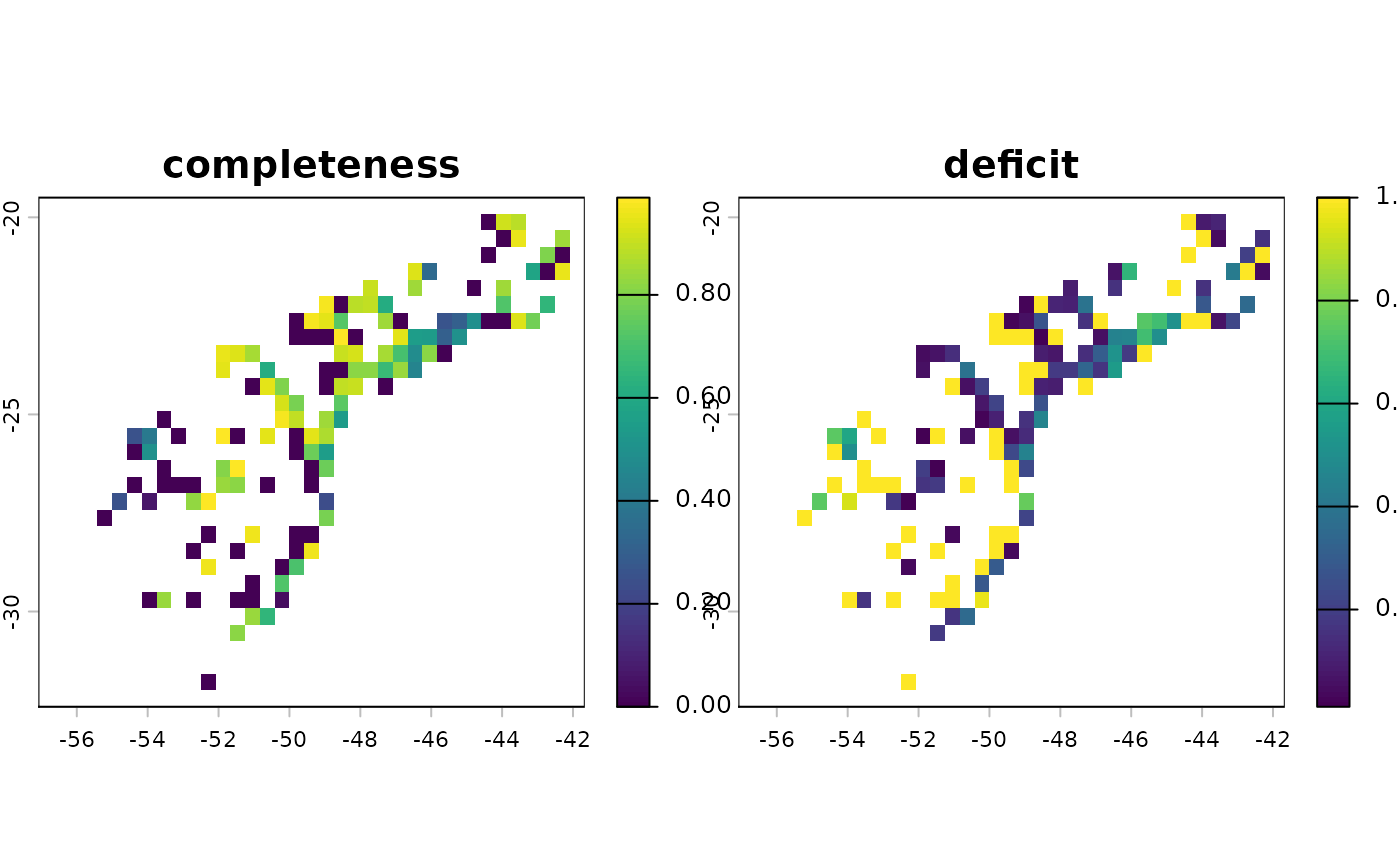
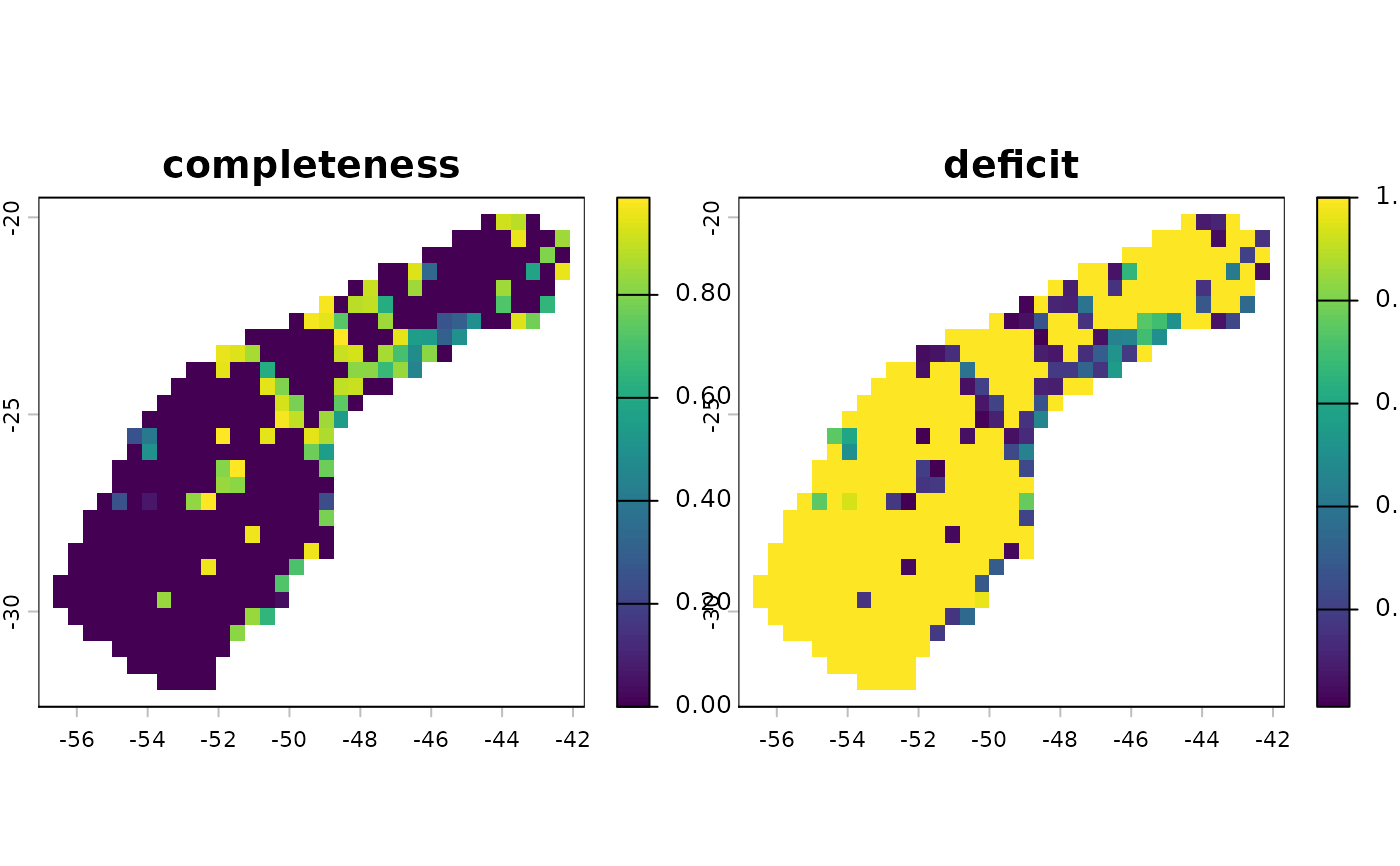
Deploying to gh-pages from @ wevertonbio/RuHere@af888d45654d9f18d6a58b5d6c9851876865cba5 🚀

Changed region(s): [[0.0307, 0.2494, 0.3993, 0.8106], [0.5221, 0.2494, 0.9214, 0.8106]]

diff --git a/reference/inventory_completeness.html b/reference/inventory_completeness.html
@@ -65,8 +65,9 @@ Chao &amp; Jost (2012).</p>
 <span>  lat <span class="op">=</span> <span class="st">"decimalLatitude"</span>,</span>
 <span>  <span class="va">raster_base</span>,</span>
 <span>  minimum_species <span class="op">=</span> <span class="fl">3</span>,</span>
-<span>  maximum_expected <span class="op">=</span> <span class="st">"double_obs"</span>,</span>
+<span>  maximum_expected <span class="op">=</span> <span class="st">"equal_obs"</span>,</span>
 <span>  remove_NA <span class="op">=</span> <span class="cn">TRUE</span>,</span>
+<span>  fill_NA <span class="op">=</span> <span class="cn">TRUE</span>,</span>
 <span>  return <span class="op">=</span> <span class="fu"><a href="https://rdrr.io/r/base/c.html" class="external-link">c</a></span><span class="op">(</span><span class="st">"completeness"</span>, <span class="st">"deficit"</span><span class="op">)</span></span>
 <span><span class="op">)</span></span></code></pre></div>
     </div>
@@ -108,21 +109,29 @@ deficit = 1. Default is 3.</p></dd>
 
 
 <dt id="arg-maximum-expected">maximum_expected<a class="anchor" aria-label="anchor" href="#arg-maximum-expected"></a></dt>
-<dd><p>(numeric or character) The upper limit for the estimated
-species richness (s_exp). Options include:</p><ul><li><p><b>"double_obs"</b>: Limits s_exp to twice the maximum observed richness
-found across all cells (recommended for stability).</p></li>
+<dd><p>(numeric or character) The upper limit for the
+estimated species richness (s_exp). Options include:</p><ul><li><p><b>"equal_obs"</b>: Limits s_exp to the maximum observed richness
+(sefault).</p></li>
+<li><p><b>"double_obs"</b>: Limits s_exp to twice the maximum observed
+richness found across all cells.</p></li>
 <li><p><b>"triple_obs"</b>: Limits s_exp to three times the maximum observed
 richness global.</p></li>
 <li><p><b>"free"</b>: No limit is applied to the Chao1 estimator.</p></li>
-<li><p><b>numeric</b>: A fixed integer defining the maximum number of species
-allowed for any cell.</p></li>
+<li><p><b>numeric</b>: A fixed integer defining the maximum number of
+species allowed for any cell.</p></li>
 </ul><p>This prevents mathematically inflated estimates in cells with extremely
-low sampling coverage. Default is "double_obs".</p></dd>
+low sampling coverage.</p></dd>
 
 
 <dt id="arg-remove-na">remove_NA<a class="anchor" aria-label="anchor" href="#arg-remove-na"></a></dt>
 <dd><p>(logical) whether to remove sampling units in raster_base
 where values are NA.</p></dd>
+
+
+<dt id="arg-fill-na">fill_NA<a class="anchor" aria-label="anchor" href="#arg-fill-na"></a></dt>
+<dd><p>(logical) if TRUE (default), cells within the <code>raster_base</code>
+without occurrence records are assigned completeness = 0 and deficit = 1. If
+FALSE, these cells remain NA.</p></dd>
 
 
 <dt id="arg-return">return<a class="anchor" aria-label="anchor" href="#arg-return"></a></dt>

diff --git a/reference/faunabr_here.html b/reference/faunabr_here.html
@@ -122,12 +122,12 @@ specified by <code>data_dir</code>.</p>
 <span class="r-in"><span><span class="co"># Download the latest version of the Flora e Funga do Brazil database</span></span></span>
 <span class="r-in"><span><span class="fu">faunabr_here</span><span class="op">(</span>data_dir <span class="op">=</span> <span class="va">data_dir</span><span class="op">)</span></span></span>
 <span class="r-msg co"><span class="r-pr">#&gt;</span> Getting data from Taxonomic Catalog of the Brazilian Fauna ...</span>
-<span class="r-msg co"><span class="r-pr">#&gt;</span> Data will be saved in /tmp/Rtmpkx6pXh/faunabr</span>
+<span class="r-msg co"><span class="r-pr">#&gt;</span> Data will be saved in /tmp/RtmphYJGJZ/faunabr</span>
 <span class="r-msg co"><span class="r-pr">#&gt;</span> Downloading version: 1.50</span>
 <span class="r-msg co"><span class="r-pr">#&gt;</span> Merging data. Please wait a moment...</span>
-<span class="r-msg co"><span class="r-pr">#&gt;</span> Data will be saved in /tmp/Rtmpkx6pXh/faunabr</span>
-<span class="r-msg co"><span class="r-pr">#&gt;</span> Data downloaded and merged successfully. Final data saved in/tmp/Rtmpkx6pXh/faunabr/1.50/CompleteBrazilianFauna.gz</span>
-<span class="r-msg co"><span class="r-pr">#&gt;</span> Data sucessfuly saved in /tmp/Rtmpkx6pXh/faunabr</span>
+<span class="r-msg co"><span class="r-pr">#&gt;</span> Data will be saved in /tmp/RtmphYJGJZ/faunabr</span>
+<span class="r-msg co"><span class="r-pr">#&gt;</span> Data downloaded and merged successfully. Final data saved in/tmp/RtmphYJGJZ/faunabr/1.50/CompleteBrazilianFauna.gz</span>
+<span class="r-msg co"><span class="r-pr">#&gt;</span> Data sucessfuly saved in /tmp/RtmphYJGJZ/faunabr</span>
 <span class="r-msg co"><span class="r-pr">#&gt;</span> </span>
 <span class="r-msg co"><span class="r-pr">#&gt;</span> Please don't forget to cite:</span>
 <span class="r-msg co"><span class="r-pr">#&gt;</span> </span>

diff --git a/reference/florabr_here.html b/reference/florabr_here.html
@@ -122,12 +122,12 @@ specified by <code>data_dir</code>.</p>
 <span class="r-in"><span><span class="co"># Download the latest version of the Flora e Funga do Brasil database</span></span></span>
 <span class="r-in"><span><span class="fu">florabr_here</span><span class="op">(</span>data_dir <span class="op">=</span> <span class="va">data_dir</span><span class="op">)</span></span></span>
 <span class="r-msg co"><span class="r-pr">#&gt;</span> Getting data from Flora e Funga do Brasil...</span>
-<span class="r-msg co"><span class="r-pr">#&gt;</span> Data will be saved in /tmp/Rtmpkx6pXh/florabr</span>
+<span class="r-msg co"><span class="r-pr">#&gt;</span> Data will be saved in /tmp/RtmphYJGJZ/florabr</span>
 <span class="r-msg co"><span class="r-pr">#&gt;</span> Downloading version: 393.425</span>
 <span class="r-msg co"><span class="r-pr">#&gt;</span> Merging data. Please wait a moment...</span>
-<span class="r-msg co"><span class="r-pr">#&gt;</span> Data will be saved in /tmp/Rtmpkx6pXh/florabr</span>
-<span class="r-msg co"><span class="r-pr">#&gt;</span> Data downloaded and merged successfully. Final data saved in /tmp/Rtmpkx6pXh/florabr/393.425/CompleteBrazilianFlora.rds</span>
-<span class="r-msg co"><span class="r-pr">#&gt;</span> Data sucessfuly saved in /tmp/Rtmpkx6pXh/florabr</span>
+<span class="r-msg co"><span class="r-pr">#&gt;</span> Data will be saved in /tmp/RtmphYJGJZ/florabr</span>
+<span class="r-msg co"><span class="r-pr">#&gt;</span> Data downloaded and merged successfully. Final data saved in /tmp/RtmphYJGJZ/florabr/393.425/CompleteBrazilianFlora.rds</span>
+<span class="r-msg co"><span class="r-pr">#&gt;</span> Data sucessfuly saved in /tmp/RtmphYJGJZ/florabr</span>
 <span class="r-msg co"><span class="r-pr">#&gt;</span> </span>
 <span class="r-msg co"><span class="r-pr">#&gt;</span> Please don't forget to cite:</span>
 <span class="r-msg co"><span class="r-pr">#&gt;</span> </span>

diff --git a/reference/get_idigbio.html b/reference/get_idigbio.html
@@ -175,7 +175,7 @@ fields.</p>
 <span class="r-in"><span>  save <span class="op">=</span> <span class="cn">TRUE</span>,</span></span>
 <span class="r-in"><span>  compress <span class="op">=</span> <span class="cn">TRUE</span>,</span></span>
 <span class="r-in"><span>  file.format <span class="op">=</span> <span class="st">"rds"</span><span class="op">)</span></span></span>
-<span class="r-msg co"><span class="r-pr">#&gt;</span> Writing /tmp/Rtmpkx6pXh/anacardiaceae_records.rds on disk.</span>
+<span class="r-msg co"><span class="r-pr">#&gt;</span> Writing /tmp/RtmphYJGJZ/anacardiaceae_records.rds on disk.</span>
 <span class="r-in"><span><span class="co"># }</span></span></span>
 <span class="r-in"><span></span></span>
 </code></pre></div>

diff --git a/reference/wcvp_here.html b/reference/wcvp_here.html
@@ -113,7 +113,7 @@ specified by <code>data_dir</code>.</p>
 <span class="r-msg co"><span class="r-pr">#&gt;</span> Task 1 of 3: Downloading data from the World Checklist of Vascular Plants (WCVP) repository...</span>
 <span class="r-msg co"><span class="r-pr">#&gt;</span> Task 2 of 3: Merging data...</span>
 <span class="r-msg co"><span class="r-pr">#&gt;</span> Task 3 of 3: Downloading map from the World Geographical Scheme for Recording Plant Distributions (WGSRPD)...</span>
-<span class="r-msg co"><span class="r-pr">#&gt;</span> Data sucessfuly saved in /tmp/Rtmpkx6pXh/iucn</span>
+<span class="r-msg co"><span class="r-pr">#&gt;</span> Data sucessfuly saved in /tmp/RtmphYJGJZ/iucn</span>
 <span class="r-msg co"><span class="r-pr">#&gt;</span> Please don't forget to cite:</span>
 <span class="r-msg co"><span class="r-pr">#&gt;</span> </span>
 <span class="r-msg co"><span class="r-pr">#&gt;</span> Govaerts, R., Nic Lughadha, E. et al. The World Checklist of Vascular Plants, a continuously updated resource for exploring global plant diversity. Sci Data, 8, 215 (2021). https://doi.org/10.1038/s41597-021-00997-6</span>

diff --git a/reference/inventory_completeness.md b/reference/inventory_completeness.md
@@ -14,8 +14,9 @@ inventory_completeness(
   lat = "decimalLatitude",
   raster_base,
   minimum_species = 3,
-  maximum_expected = "double_obs",
+  maximum_expected = "equal_obs",
   remove_NA = TRUE,
+  fill_NA = TRUE,
   return = c("completeness", "deficit")
 )
 ```
@@ -59,8 +60,11 @@ inventory_completeness(
   (numeric or character) The upper limit for the estimated species
   richness (s_exp). Options include:
 
+  - **"equal_obs"**: Limits s_exp to the maximum observed richness
+    (sefault).
+
   - **"double_obs"**: Limits s_exp to twice the maximum observed
-    richness found across all cells (recommended for stability).
+    richness found across all cells.
 
   - **"triple_obs"**: Limits s_exp to three times the maximum observed
     richness global.
@@ -71,12 +75,18 @@ inventory_completeness(
     allowed for any cell.
 
   This prevents mathematically inflated estimates in cells with
-  extremely low sampling coverage. Default is "double_obs".
+  extremely low sampling coverage.
 
 - remove_NA:
 
   (logical) whether to remove sampling units in raster_base where values
   are NA.
+
+- fill_NA:
+
+  (logical) if TRUE (default), cells within the `raster_base` without
+  occurrence records are assigned completeness = 0 and deficit = 1. If
+  FALSE, these cells remain NA.
 
 - return:
 

diff --git a/reference/faunabr_here.md b/reference/faunabr_here.md
@@ -70,12 +70,12 @@ data_dir <- tempdir() # Here, a temporary directory
 # Download the latest version of the Flora e Funga do Brazil database
 faunabr_here(data_dir = data_dir)
 #> Getting data from Taxonomic Catalog of the Brazilian Fauna ...
-#> Data will be saved in /tmp/Rtmpkx6pXh/faunabr
+#> Data will be saved in /tmp/RtmphYJGJZ/faunabr
 #> Downloading version: 1.50
 #> Merging data. Please wait a moment...
-#> Data will be saved in /tmp/Rtmpkx6pXh/faunabr
-#> Data downloaded and merged successfully. Final data saved in/tmp/Rtmpkx6pXh/faunabr/1.50/CompleteBrazilianFauna.gz
-#> Data sucessfuly saved in /tmp/Rtmpkx6pXh/faunabr
+#> Data will be saved in /tmp/RtmphYJGJZ/faunabr
+#> Data downloaded and merged successfully. Final data saved in/tmp/RtmphYJGJZ/faunabr/1.50/CompleteBrazilianFauna.gz
+#> Data sucessfuly saved in /tmp/RtmphYJGJZ/faunabr
 #> 
 #> Please don't forget to cite:
 #> 

diff --git a/reference/florabr_here.md b/reference/florabr_here.md
@@ -70,12 +70,12 @@ data_dir <- tempdir() # Here, a temporary directory
 # Download the latest version of the Flora e Funga do Brasil database
 florabr_here(data_dir = data_dir)
 #> Getting data from Flora e Funga do Brasil...
-#> Data will be saved in /tmp/Rtmpkx6pXh/florabr
+#> Data will be saved in /tmp/RtmphYJGJZ/florabr
 #> Downloading version: 393.425
 #> Merging data. Please wait a moment...
-#> Data will be saved in /tmp/Rtmpkx6pXh/florabr
-#> Data downloaded and merged successfully. Final data saved in /tmp/Rtmpkx6pXh/florabr/393.425/CompleteBrazilianFlora.rds
-#> Data sucessfuly saved in /tmp/Rtmpkx6pXh/florabr
+#> Data will be saved in /tmp/RtmphYJGJZ/florabr
+#> Data downloaded and merged successfully. Final data saved in /tmp/RtmphYJGJZ/florabr/393.425/CompleteBrazilianFlora.rds
+#> Data sucessfuly saved in /tmp/RtmphYJGJZ/florabr
 #> 
 #> Please don't forget to cite:
 #> 

diff --git a/reference/get_idigbio.md b/reference/get_idigbio.md
@@ -123,6 +123,6 @@ records_saved_rds <- get_idigbio(
   save = TRUE,
   compress = TRUE,
   file.format = "rds")
-#> Writing /tmp/Rtmpkx6pXh/anacardiaceae_records.rds on disk.
+#> Writing /tmp/RtmphYJGJZ/anacardiaceae_records.rds on disk.
 # }
 ```

diff --git a/reference/wcvp_here.md b/reference/wcvp_here.md
@@ -60,7 +60,7 @@ wcvp_here(data_dir = data_dir)
 #> Task 1 of 3: Downloading data from the World Checklist of Vascular Plants (WCVP) repository...
 #> Task 2 of 3: Merging data...
 #> Task 3 of 3: Downloading map from the World Geographical Scheme for Recording Plant Distributions (WGSRPD)...
-#> Data sucessfuly saved in /tmp/Rtmpkx6pXh/iucn
+#> Data sucessfuly saved in /tmp/RtmphYJGJZ/iucn
 #> Please don't forget to cite:
 #> 
 #> Govaerts, R., Nic Lughadha, E. et al. The World Checklist of Vascular Plants, a continuously updated resource for exploring global plant diversity. Sci Data, 8, 215 (2021). https://doi.org/10.1038/s41597-021-00997-6